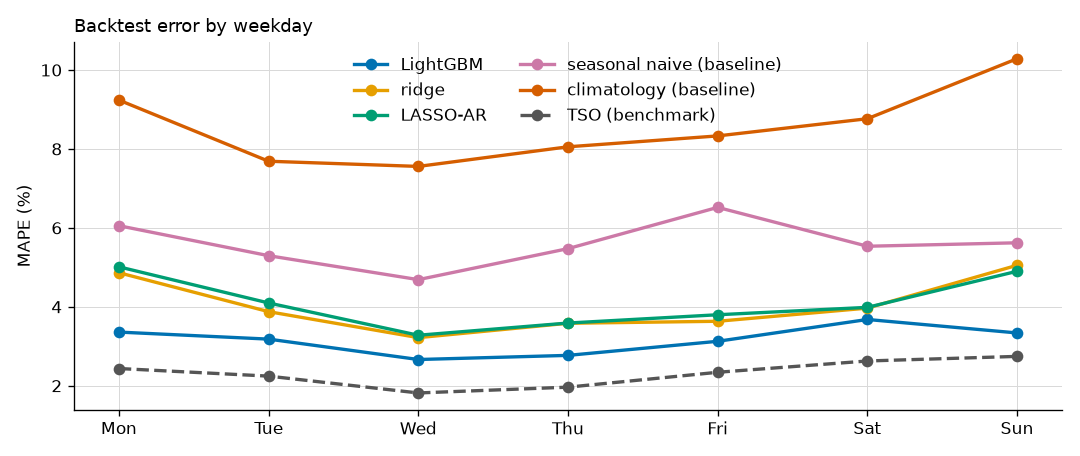
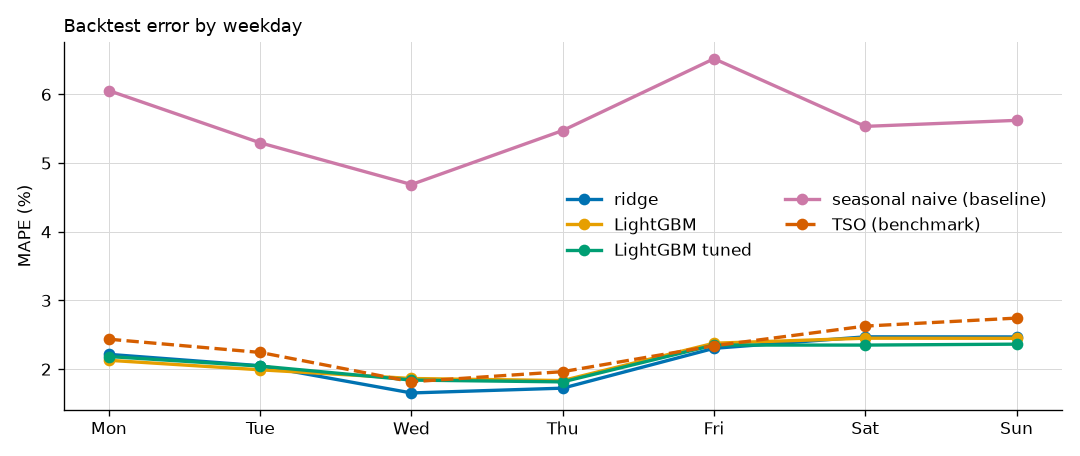
docs: overnight verdicts note, diagnostics on TSO-feature champions

diff --git a/docs/notes/model_selection/03_overnight_verdicts.tex b/docs/notes/model_selection/03_overnight_verdicts.tex
@@ -1,0 +1,68 @@
+\section{Overnight campaign verdicts (2026-07-15)}
+
+Every claim below is walk-forward unless marked (screening).
+Reference exam: 12 months, 8{,}762~h, honest lead-2 forecast weather.
+
+\subsection{The headline: we beat the TSO by combining with it}
+
+\begin{center}
+\begin{tabular}{lrrr}
+\toprule
+Model & MAPE (\%) & MAE (MW) & Pinball P50 \\
+\midrule
+\textbf{ridge + TSO feature} & \textbf{2.13} & \textbf{383} & \textbf{192} \\
+LightGBM tuned + TSO & 2.14 & 391 & 196 \\
+LightGBM + TSO & 2.16 & 394 & 197 \\
+TSO alone & 2.31 & 418 & 209 \\
+LSTM enc\_dec + TSO & 2.49 & 460 & 230 \\
+LightGBM (no TSO) & 3.16 & 579 & 290 \\
+LSTM enc\_dec (no TSO) & 3.67 & 692 & 346 \\
+\bottomrule
+\end{tabular}
+\end{center}
+
+The TSO forecast publishes at our 09:00 D-1 cutoff, so it is a legal
+known-future input (DECISIONS 2026-07-15). Adding it turns our models into
+\emph{forecast combiners} --- and the combination beats the incumbent by 8\%
+MAE. Classic literature result (combination gains of 5--15\%): the desk
+truth that you post-process the TSO, not fight it blind.
+
+Why ridge wins: an optimal combination of a strong, nearly unbiased
+forecast with residual predictors is almost linear. Trees and nets have
+nothing nonlinear left to model, and pay variance for trying.
+
+\subsection{Questions closed tonight}
+
+\begin{itemize}
+  \item \textbf{Bigger nets? No.} Capacity curve complete: 3.21 / 3.00 /
+        3.14 / 3.15 / 3.28\% for 29k / 106k / 409k / 1.6M / 6.4M params
+        (screening). Peak at 106k; data-limited, not capacity-limited.
+  \item \textbf{Origin augmentation? Hurts.} 4 origins per day: 3.66--3.73\%
+        vs 3.00\% baseline. Shifted origins train a task never evaluated.
+        Negative result, logged, not to be re-derived.
+  \item \textbf{Ladder (screening).} vanilla 4.7\% $\approx$ BiLSTM 4.6\%
+        (history-only rungs) $\ll$ enc\_dec 3.00\% $<$
+        \textbf{Luong attention 2.88\%} (stable across h64--h256).
+        Covariates dominate; attention adds a real but modest edge.
+        Attention walk-forward $\pm$ TSO queued after the campaign.
+  \item \textbf{Screening flatters nets.} enc\_dec: 3.00\% screening
+        $\to$ 3.67\% walk-forward. Single-split scores rank ideas;
+        only walk-forward numbers enter the README.
+  \item \textbf{LightGBM tuning: marginal.} Both informed configs 2.14\%
+        vs 2.16\% default (with TSO). The signal is in the features,
+        not the hyperparameters.
+\end{itemize}
+
+\subsection{Production candidate}
+
+ridge + TSO + weather + calendar + lags: best MAPE, best pinball on both
+tails, cheapest to run, trivially explainable (coefficients ARE the
+explanation). Recommendation: promote to UAT shadow mode (M9 rules) with
+LightGBM+TSO as challenger. Owner decides.
+
+\subsection{Interview line}
+
+``My best model is a ridge regression --- and that is the point. Once the
+TSO's forecast is an input, the remaining signal is nearly linear. I proved
+the deep alternatives lose on a 12-month walk-forward, and I can say
+exactly why.''

diff --git a/src/viz/diagnostics.py b/src/viz/diagnostics.py
@@ -21,10 +21,12 @@ SERIES_COLORS = CATEGORICAL + ["#D55E00", "#555555"]
 FIGURES = REPO_ROOT / "reports" / "figures"
 LOCAL_TZ = "Europe/Warsaw"
 MODEL_ORDER = [
-    "lgbm_quantile", "ridge", "lasso_ar", "seasonal_naive", "climatology", "tso_forecast",
+    "ridge", "lgbm_quantile", "lgbm_regular", "lasso_ar", "seasonal_naive",
+    "climatology", "tso_forecast",
 ]
 DISPLAY = {
     "lgbm_quantile": "LightGBM",
+    "lgbm_regular": "LightGBM tuned",
     "ridge": "ridge",
     "lasso_ar": "LASSO-AR",
     "seasonal_naive": "seasonal naive (baseline)",
@@ -100,7 +102,7 @@ def plot_daily_mape_distribution(errs: dict[str, pd.Series], out: Path) -> Path:
 def main() -> int:
     cfg = load_config()
     # Prefer the honest run (forecast weather) when it exists.
-    candidates = ["backtest_preds_fcst", "backtest_preds_actuals"]
+    candidates = ["backtest_preds_fcst_tso", "backtest_preds_fcst", "backtest_preds_actuals"]
     preds_dir = next(
         (cfg.paths["data_processed"] / c for c in candidates
          if (cfg.paths["data_processed"] / c).exists()),

diff --git a/docs/notes/model_selection/main.tex b/docs/notes/model_selection/main.tex
@@ -23,5 +23,6 @@
 
 \input{01_model_ladder.tex}
 \input{02_lstm_screening.tex}
+\input{03_overnight_verdicts.tex}
 
 \end{document}
